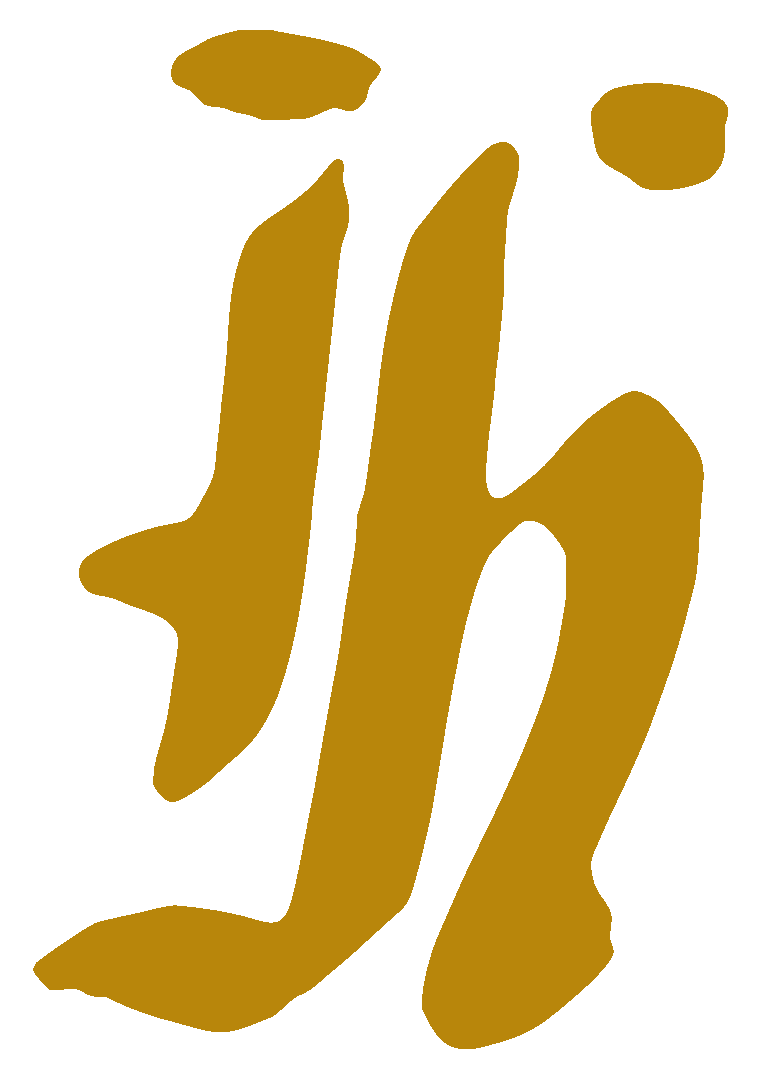
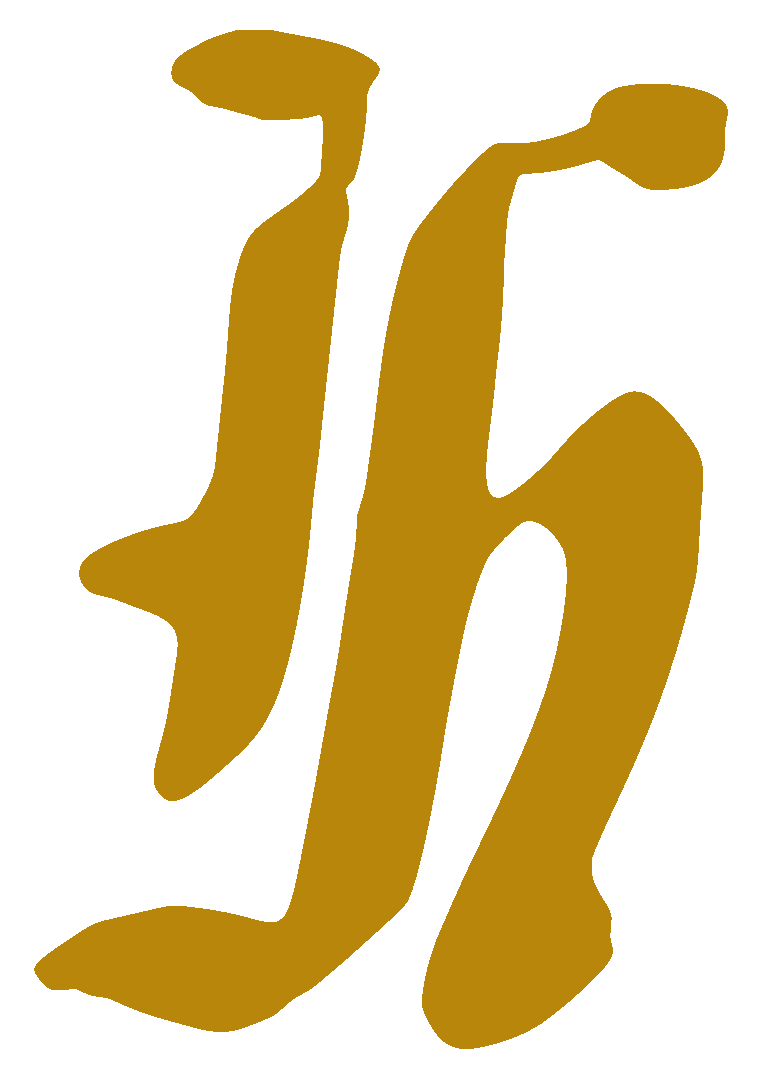
Hattiesburg wave2: connected HHS H, Culpepper hat back, Speed's sock no-hyphen
- HHS Old English H: ear connectors forced (left neck, right arm); tees, hats, gym sock rebuilt
- Culpepper hat back: arched CULPEPPER / BODY & PAINT, 2.86x0.89in, min stroke 0.053in
- Speed's sock: RESTAU/RANT without hyphen + one-line alternate
- Mocks regenerated; build scripts synced (hats, socks, hhs_v2, hat_mock, culpepper back)

Claude-Session: https://claude.ai/code/session_01TqhzTg1EJZZfGMFmW7WiyP

Changed region(s): [[0.6649, 0.0918, 0.7858, 0.1837], [0.4231, 0.0918, 0.4836, 0.1837]]

diff --git a/src/newsprint/builds/hat_mock.py b/src/newsprint/builds/hat_mock.py
@@ -1,0 +1,65 @@
+"""Dad-hat mockups (front + back) for embroidery files. Scale-true: PPI px per inch of hat."""
+import numpy as np, cv2
+from PIL import Image, ImageDraw, ImageFont
+D = "/tmp/claude-0/-home-claude/2883d029-23a6-5e8e-ac19-37b93b8bd372/scratchpad/hb/hats"
+PPI = 90
+FONT = "/usr/share/fonts/truetype/dejavu/DejaVuSans.ttf"
+
+def _art(path):
+    a = Image.open(path).convert("RGBA")
+    w, h = a.size
+    return a.resize((max(1, int(w / 300 * PPI)), max(1, int(h / 300 * PPI))), Image.LANCZOS)
+
+def _shade(c, k): return tuple(int(max(0, min(255, v * k))) for v in c)
+
+def front(path, hat, label):
+    W, H = int(8.2 * PPI), int(6.4 * PPI)
+    im = Image.new("RGB", (W, H), (236, 233, 226)); d = ImageDraw.Draw(im)
+    cx = W // 2; base = int(4.6 * PPI)
+    # bill (under crown)
+    d.ellipse([cx - 3.9 * PPI, base - 0.55 * PPI, cx + 3.9 * PPI, base + 1.55 * PPI], fill=_shade(hat, 0.82))
+    # crown: half-ellipse 7.0in wide, 4.0in tall
+    d.pieslice([cx - 3.5 * PPI, base - 4.0 * PPI, cx + 3.5 * PPI, base + 4.0 * PPI], 180, 360, fill=hat)
+    d.line([cx, base - 3.95 * PPI, cx, base], fill=_shade(hat, 0.9), width=2)          # centre seam
+    d.ellipse([cx - 0.18 * PPI, base - 4.08 * PPI, cx + 0.18 * PPI, base - 3.86 * PPI], fill=_shade(hat, 0.9))  # button
+    a = _art(path)
+    y = int(base - 0.55 * PPI - a.size[1]); im.paste(a, (cx - a.size[0] // 2, y), a)
+    d.text((10, H - 22), label, fill=(70, 70, 70), font=ImageFont.truetype(FONT, 14))
+    return im
+
+def back(path, hat, label):
+    W, H = int(8.2 * PPI), int(6.4 * PPI)
+    im = Image.new("RGB", (W, H), (236, 233, 226)); d = ImageDraw.Draw(im)
+    cx = W // 2; base = int(5.2 * PPI)
+    d.pieslice([cx - 3.5 * PPI, base - 4.0 * PPI, cx + 3.5 * PPI, base + 4.0 * PPI], 180, 360, fill=hat)
+    d.line([cx, base - 3.95 * PPI, cx, base - 1.25 * PPI], fill=_shade(hat, 0.9), width=2)
+    # closure opening (~2.6in wide, 1.2in tall arch) + strap
+    d.pieslice([cx - 1.3 * PPI, base - 1.2 * PPI, cx + 1.3 * PPI, base + 1.2 * PPI], 180, 360, fill=(236, 233, 226))
+    d.rectangle([cx - 1.45 * PPI, base - 0.28 * PPI, cx + 1.45 * PPI, base - 0.02 * PPI], fill=_shade(hat, 0.86))
+    d.rectangle([cx + 0.55 * PPI, base - 0.34 * PPI, cx + 0.85 * PPI, base + 0.04 * PPI], fill=(176, 160, 120))  # buckle
+    a = _art(path)
+    y = int(base - 1.2 * PPI - 0.18 * PPI - a.size[1]); im.paste(a, (cx - a.size[0] // 2, y), a)
+    d.text((10, H - 22), label, fill=(70, 70, 70), font=ImageFont.truetype(FONT, 14))
+    return im
+
+def sheet(ims, cols, out):
+    w, h = ims[0].size; rows = (len(ims) + cols - 1) // cols
+    S = Image.new("RGB", (cols * w + (cols + 1) * 12, rows * h + (rows + 1) * 12), (255, 255, 255))
+    for i, m in enumerate(ims):
+        S.paste(m, (12 + (i % cols) * (w + 12), 12 + (i // cols) * (h + 12)))
+    S.save(out, quality=90); return out
+
+if __name__ == "__main__":
+    STONE, WHITE, BLACK, NAVY, MAROON, CREAM, KHAKI = (196, 182, 150), (244, 242, 236), (34, 34, 36), (31, 42, 68), (104, 30, 40), (232, 222, 196), (186, 168, 128)
+    sheet([front(f"{D}/hat_culpepper_duck_black.png", STONE, "Culpepper — FRONT: duck (black thread, stone hat)"),
+           back(f"{D}/hat_culpepper_back_black.png", STONE, "Culpepper — BACK: arched CULPEPPER / BODY & PAINT")], 2, f"{D}/culpepper_hat_front_back_mock.jpg")
+    sheet([front(f"{D}/hat_hubcity_black.png", WHITE, "Hub City — black on white"),
+           front(f"{D}/hat_camelot_red.png", WHITE, "Camelot — red on white"),
+           front(f"{D}/hat_camelot_white.png", NAVY, "Camelot — white on navy"),
+           front(f"{D}/hat_britches_cream.png", MAROON, "Britches — cream on maroon"),
+           front(f"{D}/hat_speeds_red.png", CREAM, "Speed's — red on cream"),
+           front(f"{D}/hat_hhs_oldenglishH_purple.png", WHITE, "HHS H — purple on white"),
+           front(f"{D}/hat_hhs_oldenglishH_gold.png", BLACK, "HHS H — gold on black"),
+           front(f"{D}/hat_culpepper_duck_black.png", STONE, "Culpepper duck — front"),
+           back(f"{D}/hat_culpepper_back_black.png", STONE, "Culpepper — back arch")], 3, f"{D}/hats_mocks.jpg")
+    print("ok")

diff --git a/src/newsprint/builds/socks_build.py b/src/newsprint/builds/socks_build.py
@@ -29,7 +29,7 @@ out = {}
 # 1) HHS gym sock — white, purple stripes, Old English H (one school color)
 P = (58, 16, 85); s = Strip((246, 246, 244))
 for i in range(3): s.band(0.55 * IN + i * 0.42 * IN, 0.55 * IN + i * 0.42 * IN + 0.22 * IN, P)
-svg = open(f"{HB}/ref/hhs/hhs_oldenglish_H_s9.svg").read(); w0, h0 = [int(v) for v in re.findall(r'width="(\d+)" height="(\d+)"', svg)[0]]
+svg = open(f"{HB}/ref/hhs/hhs_oldenglish_H_connected.svg").read(); w0, h0 = [int(v) for v in re.findall(r'width="(\d+)" height="(\d+)"', svg)[0]]
 hh = int(2.6 * IN); Hm = render_svg(svg, int(w0 * hh / h0), hh)
 y = s.put(Hm, P, 2.3 * IN)
 s.put(word("PHYS. ED.", "Graduate-Regular.ttf", None, w=int(2.6 * IN), tr=0.06), P, y + 0.25 * IN)
@@ -102,14 +102,26 @@ s = Strip(CR)
 s.band(0.35 * IN, 0.55 * IN, GR); s.band(0.62 * IN, 0.70 * IN, CR); s.band(0.70 * IN, 0.9 * IN, GR)
 s.a[int(1.5 * IN):int(7.4 * IN), int(0.25 * IN):W - int(0.25 * IN)] = DR
 s.a[int(1.6 * IN):int(7.3 * IN), int(0.35 * IN):W - int(0.35 * IN)] = R2
-y = 1.95 * IN
-for t, h in (("ALBERT", 1.05), ("SPEED'S", 1.35), ("RESTAU-", 1.0), ("RANT", 1.0)):
-    m = word(t, "Archivo[wdth,wght].ttf", {"wght": 760, "wdth": 82}, w=int(3.5 * IN), h=int(h * IN), tr=0.04, round_px=6)
-    y = s.put(m, CR, y) + 0.12 * IN
-s.put(word("304 BROADWAY DR.", "Jost[wght].ttf", {"wght": 700}, w=int(3.4 * IN), tr=0.08), R2, 12.9 * IN)
-s.put(word("HATTIESBURG · 1966", "Jost[wght].ttf", {"wght": 700}, w=int(3.4 * IN), tr=0.08), R2, 13.55 * IN)
-s.band(17.7 * IN, 17.9 * IN, GR)
-out["speeds"] = s.save("sock_speeds")
+def speeds_sock(lines, name):
+    s = Strip(CR)
+    s.band(0.35 * IN, 0.55 * IN, GR); s.band(0.62 * IN, 0.70 * IN, CR); s.band(0.70 * IN, 0.9 * IN, GR)
+    s.a[int(1.5 * IN):int(7.4 * IN), int(0.25 * IN):W - int(0.25 * IN)] = DR
+    s.a[int(1.6 * IN):int(7.3 * IN), int(0.35 * IN):W - int(0.35 * IN)] = R2
+    ms = [word(t, "Archivo[wdth,wght].ttf", {"wght": 760, "wdth": 82}, w=int(3.5 * IN), h=int(h * IN), tr=0.04, round_px=6) for t, h in lines]
+    if [t for t, _ in lines][-2:] == ["RESTAU", "RANT"]:   # one word split across two lines: same letter height
+        ms[-1] = word("RANT", "Archivo[wdth,wght].ttf", {"wght": 760, "wdth": 82}, h=ms[-2].shape[0], tr=0.04, round_px=6)
+    gap = 0.12 * IN
+    total = sum(m.shape[0] for m in ms) + gap * (len(ms) - 1)
+    y = 1.6 * IN + ((7.3 - 1.6) * IN - total) / 2          # center the stack in the red panel
+    for m in ms: y = s.put(m, CR, y) + gap
+    s.put(word("304 BROADWAY DR.", "Jost[wght].ttf", {"wght": 700}, w=int(3.4 * IN), tr=0.08), R2, 12.9 * IN)
+    s.put(word("HATTIESBURG · 1966", "Jost[wght].ttf", {"wght": 700}, w=int(3.4 * IN), tr=0.08), R2, 13.55 * IN)
+    s.band(17.7 * IN, 17.9 * IN, GR)
+    return s.save(name)
+# primary: stacked sign-style split, no hyphen (Brad 10-21)
+out["speeds"] = speeds_sock((("ALBERT", 1.05), ("SPEED'S", 1.35), ("RESTAU", 1.0), ("RANT", 1.0)), "sock_speeds")
+# alternate: RESTAURANT on one line
+out["speeds_alt"] = speeds_sock((("ALBERT", 1.15), ("SPEED'S", 1.5), ("RESTAURANT", 0.62)), "sock_speeds_oneline")
 
 # mock: render each strip as a sock silhouette (leg + foot)
 def sock_mock(p, label):
@@ -124,8 +136,8 @@ def sock_mock(p, label):
 import sys as _s; _s.path.insert(0, f"{HB}/lib"); from teemock import sheet
 sheet([sock_mock(out[k], l) for k, l in (("hhs", "HHS gym sock"), ("camelot", "Camelot"), ("hubcity", "Hub City"), ("speeds", "Albert Speed's"))], cols=4).save(f"{D}/socks_mocks.jpg", quality=88)
 # flat strips sheet (true art)
-flat = [Image.open(out[k]).convert("RGB").resize((180, int(180 * H / W))) for k in ("hhs", "camelot", "hubcity", "speeds")]
-fs = Image.new("RGB", (4 * 200, flat[0].height + 20), (236, 234, 230))
+flat = [Image.open(out[k]).convert("RGB").resize((180, int(180 * H / W))) for k in ("hhs", "camelot", "hubcity", "speeds", "speeds_alt")]
+fs = Image.new("RGB", (5 * 200, flat[0].height + 20), (236, 234, 230))
 for i, f in enumerate(flat): fs.paste(f, (10 + i * 200, 10))
 fs.save(f"{D}/socks_flat.jpg", quality=88)
 print("done", W, H)

diff --git a/src/newsprint/builds/culpepper_hat_back_build.py b/src/newsprint/builds/culpepper_hat_back_build.py
@@ -1,0 +1,62 @@
+"""Culpepper hat BACK embroidery: arched CULPEPPER over straight BODY & PAINT SHOP.
+Printful dad-hat back area: 2.25-3.0in W x 0.75-1.0in H (above the closure). Text >= 0.25in, strokes >= 0.05in."""
+import sys, numpy as np, cv2
+sys.path.insert(0, "/tmp/claude-0/-home-claude/2883d029-23a6-5e8e-ac19-37b93b8bd372/scratchpad/hb/lib")
+from newsprint import render_text
+from PIL import Image
+D = "/tmp/claude-0/-home-claude/2883d029-23a6-5e8e-ac19-37b93b8bd372/scratchpad/hb/hats"
+DPI = 300
+F, AX = "Jost[wght].ttf", {"wght": 900}   # Futura-family caps, like the ad's headline
+
+def glyph(ch, h):
+    a, _ = render_text(ch, F, 220, AX, 0.0)
+    ys, xs = np.where(a > 0.5); a = a[ys.min():ys.max() + 1, xs.min():xs.max() + 1]
+    return cv2.resize(a, (max(1, int(a.shape[1] * h / a.shape[0])), h), interpolation=cv2.INTER_AREA)
+
+def arched(text, cap_h, radius, track):
+    """Letters on a circle arc, centre of the word highest (classic back-of-cap arch)."""
+    gl = [glyph(c, cap_h) if c != " " else None for c in text]
+    widths = [g.shape[1] if g is not None else int(cap_h * 0.35) for g in gl]
+    total = sum(widths) + track * (len(text) - 1)
+    M = cap_h * 3
+    W = int(total + 2 * M); H = int(cap_h * 2 + total ** 2 / (8 * radius) + 2 * M)
+    canvas = np.zeros((H, W), np.float32)
+    cx = W / 2; cy = M + cap_h + radius                 # arc apex sits at y = M + cap_h
+    s = -total / 2
+    for g, w in zip(gl, widths):
+        mid = s + w / 2; s += w + track
+        if g is None: continue
+        theta = mid / radius
+        # glyph centre sits half a cap-height above the arc (baseline on the arc)
+        r_c = radius + cap_h / 2
+        gx = cx + r_c * np.sin(theta); gy = cy - r_c * np.cos(theta)
+        img = Image.fromarray((g * 255).astype(np.uint8))
+        rot = np.array(img.rotate(-np.degrees(theta), expand=True, resample=Image.BICUBIC)) / 255.0
+        x0 = int(round(gx - rot.shape[1] / 2)); y0 = int(round(gy - rot.shape[0] / 2))
+        canvas[y0:y0 + rot.shape[0], x0:x0 + rot.shape[1]] = np.maximum(canvas[y0:y0 + rot.shape[0], x0:x0 + rot.shape[1]], rot)
+    m = canvas > 0.5
+    ys, xs = np.where(m); return m[ys.min():ys.max() + 1, xs.min():xs.max() + 1]
+
+def straight(text, cap_h, xs=1.0, track=0.04):
+    a, _ = render_text(text, F, 220, AX, track, xs)
+    ys, x_ = np.where(a > 0.5); a = a[ys.min():ys.max() + 1, x_.min():x_.max() + 1]
+    return cv2.resize(a, (int(a.shape[1] * cap_h / a.shape[0]), cap_h), interpolation=cv2.INTER_AREA) > 0.5
+
+top = arched("CULPEPPER", int(0.32 * DPI), radius=int(5.5 * DPI), track=int(0.035 * DPI))
+bot = straight("BODY & PAINT", int(0.26 * DPI), xs=1.0, track=0.07)
+if bot.shape[1] > int(2.95 * DPI):
+    sc = 2.95 * DPI / bot.shape[1]
+    bot = cv2.resize(bot.astype(np.float32), (int(bot.shape[1] * sc), int(bot.shape[0] * sc)), interpolation=cv2.INTER_AREA) > 0.5
+gap = int(0.08 * DPI)
+Wd = max(top.shape[1], bot.shape[1]); Ht = top.shape[0] + gap + bot.shape[0]
+out = np.zeros((Ht, Wd), bool)
+out[:top.shape[0], (Wd - top.shape[1]) // 2:(Wd - top.shape[1]) // 2 + top.shape[1]] = top
+out[top.shape[0] + gap:, (Wd - bot.shape[1]) // 2:(Wd - bot.shape[1]) // 2 + bot.shape[1]] = bot
+out = cv2.dilate(out.astype(np.uint8), cv2.getStructuringElement(cv2.MORPH_ELLIPSE, (7, 7))) > 0   # +3px stroke gain (clears 0.05in min line)
+out = np.pad(out, 12)
+rgba = np.zeros((*out.shape, 4), np.uint8); rgba[out, :3] = (17, 17, 17); rgba[out, 3] = 255
+Image.fromarray(rgba, "RGBA").save(f"{D}/hat_culpepper_back_black.png", dpi=(DPI, DPI))
+dt = cv2.distanceTransform(out.astype(np.uint8), cv2.DIST_L2, 5); v = dt[dt > 0]
+stroke = float(np.percentile(v[v >= np.percentile(v, 50)], 5) * 2) / DPI
+print(f"back: {out.shape[1] / DPI:.2f} x {out.shape[0] / DPI:.2f} in (area 2.25-3.0 x 0.75-1.0); "
+      f"cap heights 0.32/{bot.shape[0] / DPI:.2f} in; est. min stroke {stroke:.3f} in")

diff --git a/src/newsprint/builds/hats_build.py b/src/newsprint/builds/hats_build.py
@@ -107,7 +107,7 @@ sp = gain(sp, 2)
 files["speeds"] = save(sp, (178, 46, 34), "hat_speeds_red", "2nd line height check below")
 
 # 5) HHS — reconstructed 1983 Old English H, single color
-svg = open(f"{HB}/ref/hhs/hhs_oldenglish_H_s9.svg").read()
+svg = open(f"{HB}/ref/hhs/hhs_oldenglish_H_connected.svg").read()
 w0, h0 = [int(v) for v in re.findall(r'width="(\d+)" height="(\d+)"', svg)[0]]
 hh = int(1.85 * DPI); H_h = render_svg(svg, int(w0 * hh / h0), hh)
 files["hhs_p"] = save(H_h, (58, 16, 85), "hat_hhs_oldenglishH_purple", "purple thread on white/natural hat")

diff --git a/src/newsprint/builds/hhs_build_v2.py b/src/newsprint/builds/hhs_build_v2.py
@@ -7,7 +7,7 @@ from teemock import sheet, chest
 D = "/tmp/claude-0/-home-claude/2883d029-23a6-5e8e-ac19-37b93b8bd372/scratchpad/hb/hhs"
 R = "/tmp/claude-0/-home-claude/2883d029-23a6-5e8e-ac19-37b93b8bd372/scratchpad/hb/ref/hhs"
 PURPLE, GOLD = (58, 16, 85), (184, 134, 11)
-svg = open(f"{R}/hhs_oldenglish_H_s9.svg").read()
+svg = open(f"{R}/hhs_oldenglish_H_connected.svg").read()
 import re
 w0, h0 = [int(v) for v in re.findall(r'width="(\d+)" height="(\d+)"', svg)[0]]
 def letter(h):

diff --git a/hattiesburg/wave2/README.md b/hattiesburg/wave2/README.md
@@ -27,3 +27,10 @@ Pipeline + build scripts: `src/newsprint/` (`newsprint.py`, `teemock.py`, `resr_
 | `speeds_*` | QA vs the 1966 photo: warmer brick red, rounded neon-channel lettering (Archivo) with depth shadow, pale yellow-green arrow, wide mustard tower + orange base + white legs (pylon) |
 | `hats/hat_*.png` | Embroidery fronts, all within 4.0 × 2.0 in, text ≥ 0.25 in, est. min stroke ≥ 0.05 in: Hub City (authentic SR letters), Camelot stacked red/white, Britches stacked cream, Speed's 3-line red, HHS Old English H purple/gold, Culpepper duck. `concept_britches_nickel_badge_print.png` = print/patch idea, not embroidery |
 | `socks/sock_*.png` | Printful sublimation socks, basic template 4.49 × 18.85 in @300dpi (full bleed): HHS gym sock, Camelot, Hub City, Speed's |
+
+## Revision pass 2 (10-21, after Brad's 14:04 notes)
+| File(s) | Change |
+|---|---|
+| `hhs_oldenglish_H_connected.svg` → all `hhs_v2_*`, `hats/hat_hhs_oldenglishH_*`, `socks/sock_hhs_gym_purple.png` | **Ear connectors forced** (Brad: "force that"). Left ear joined to the left stem by a tapered neck; right ear joined to the h body by a short arm, both stroke-matched to the letter (≈3% of height). The photo views don't show these joins clearly (wrinkle/shadow), so this is a design decision, not evidence. The letter is now 2 solid pieces: the spur stem and the h body, which are separate in the jersey letter too. `hhs_oldenglish_H_s9.svg` kept as the evidence-only trace |
+| `hats/hat_culpepper_back_black.png` | **New back embroidery** for the Culpepper hat: arched CULPEPPER (0.32 in caps, 5.5 in radius) over straight BODY & PAINT (0.26 in caps), Jost Black (Futura family, like the ad headline). 2.86 × 0.89 in, inside Printful's back area (2.25–3.0 × 0.75–1.0 in); text ≥ 0.25 in; est. min stroke 0.053 in. Back instead of front because the duck fills the front's 1.8 in height; adding a line under it would shrink the restored face. "SHOP" dropped so the text stays ≥ 0.25 in within 3 in width. Mock: `mocks/culpepper_hat_front_back_mock.jpg` |
+| `socks/sock_speeds.png` | Hyphen removed: RESTAU / RANT with matched letter heights, centered in the red panel. Alternate: `socks/sock_speeds_oneline.png` (RESTAURANT on one condensed line) |
